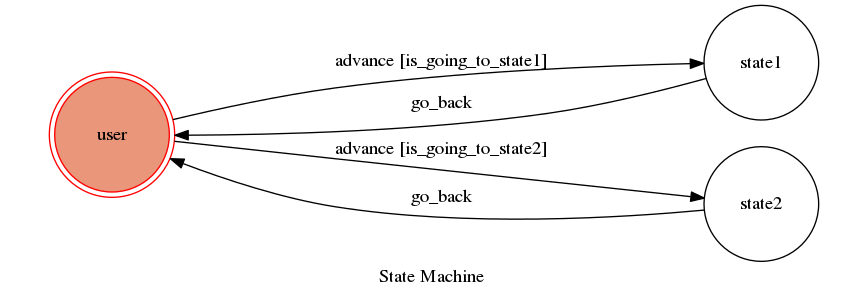
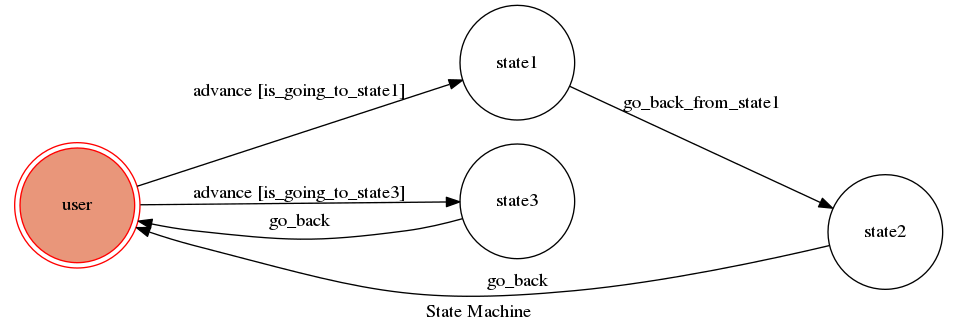
Fix Some FSM Functions

diff --git a/demo_example/fsm.py b/demo_example/fsm.py
@@ -15,10 +15,10 @@ class TocMachine(GraphMachine):
             return text.lower() == 'go to state1'
         return False
 
-    def is_going_to_state2(self, event):
+    def is_going_to_state3(self, event):
         if event.get("message"):
             text = event['message']['text']
-            return text.lower() == 'go to state2'
+            return text.lower() == 'go to state3'
         return False
 
     def on_enter_state1(self, event):
@@ -26,9 +26,9 @@ class TocMachine(GraphMachine):
 
         sender_id = event['sender']['id']
         responese = send_text_message(sender_id, "I'm entering state1")
-        self.go_back()
+        self.go_back_from_state1(event)
 
-    def on_exit_state1(self):
+    def on_exit_state1(self, event):
         print('Leaving state1')
 
     def on_enter_state2(self, event):
@@ -40,3 +40,13 @@ class TocMachine(GraphMachine):
 
     def on_exit_state2(self):
         print('Leaving state2')
+
+    def on_enter_state3(self, event):
+        print("I'm entering state3")
+
+        sender_id = event['sender']['id']
+        responese = send_text_message(sender_id, "I'm entering state3")
+        self.go_back()
+
+    def on_exit_state3(self):
+        print('Leaving state3')

diff --git a/demo_example/webhook_handler.py b/demo_example/webhook_handler.py
@@ -10,6 +10,7 @@ machine = TocMachine(
         'user',
         'state1',
         'state2',
+        'state3'
     ],
     transitions=[
         {
@@ -19,16 +20,21 @@ machine = TocMachine(
             'conditions': 'is_going_to_state1'
         },
         {
+            'trigger': 'go_back_from_state1',
+            'source': 'state1',
+            'dest': 'state2'
+        },
+        {
             'trigger': 'advance',
             'source': 'user',
-            'dest': 'state2',
-            'conditions': 'is_going_to_state2'
+            'dest': 'state3',
+            'conditions': 'is_going_to_state3'
         },
         {
             'trigger': 'go_back',
             'source': [
-                'state1',
-                'state2'
+                'state2',
+                'state3'
             ],
             'dest': 'user'
         }
@@ -49,7 +55,6 @@ def webhook_handler():
     if body['object'] == "page":
         event = body['entry'][0]['messaging'][0]
         machine.advance(event)
-        show_fsm()
         return 'OK'
 
 @route('/show-fsm', methods=['GET'])
